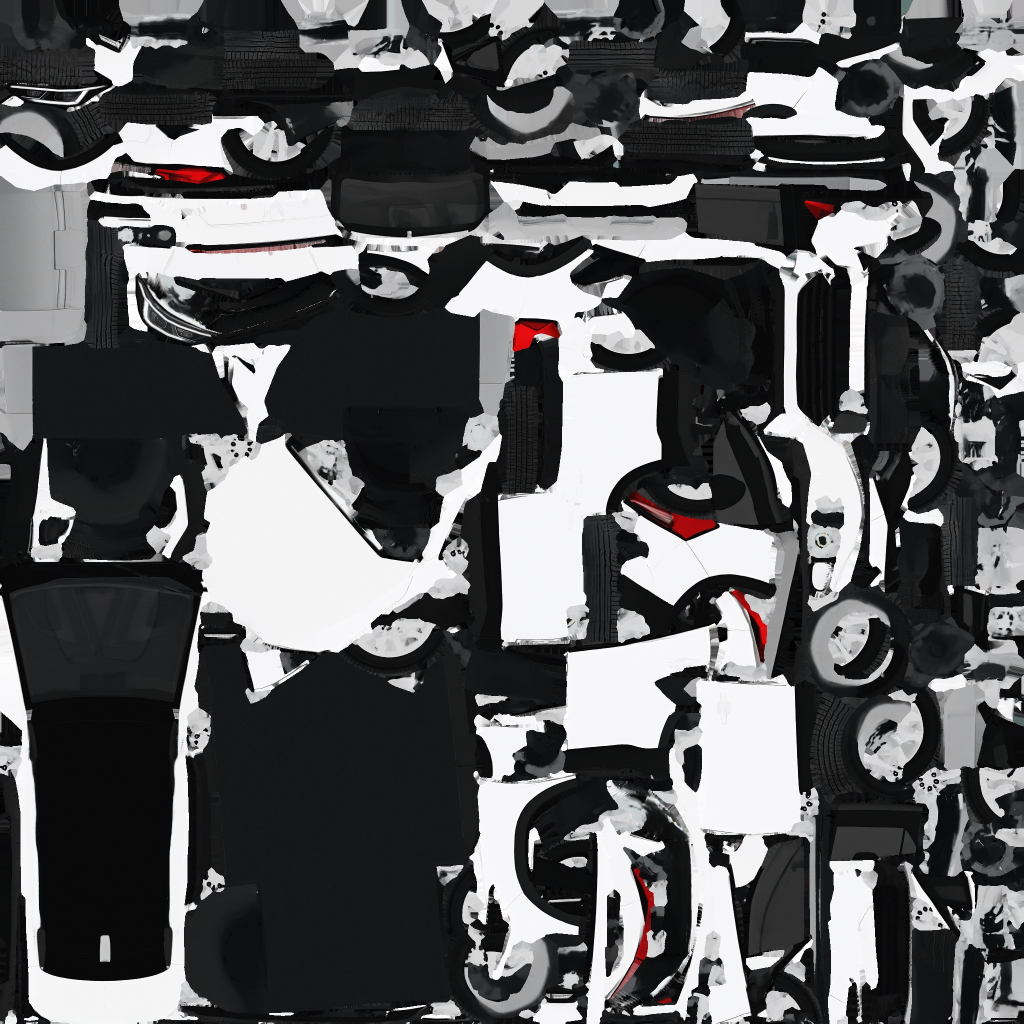
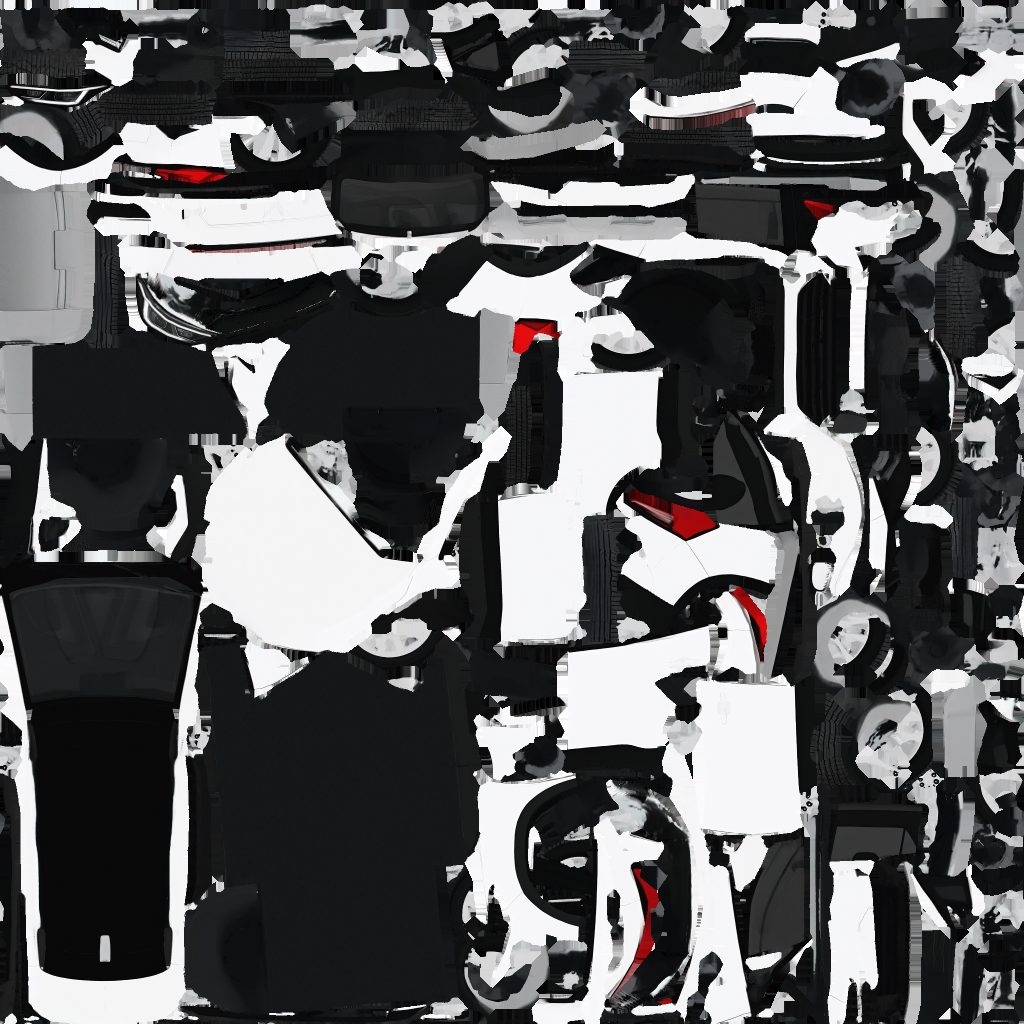
Tekstur kendaraan Meshy diberi padding (mengurangi bintik putih di sambungan UV)

diff --git a/tools/blender/meshy_mobil.py b/tools/blender/meshy_mobil.py
@@ -265,3 +265,57 @@ def proses_motor(id, path, panjang, depan="-X", tris_bodi=9500, tris_roda=1500):
     )
     print(info)
     return info
+
+
+def pad_png(path, objs, pad=10):
+    """Tambahkan 'padding' pada tekstur: piksel di luar pulau UV diisi warna pulau terdekat, supaya
+    tepi panel tidak membocorkan warna latar (putih/hitam) saat di-mipmap atau difilter di Roblox.
+    path = PNG warna dasar; objs = semua objek yang memakai tekstur itu (bodi + roda)."""
+    img = bpy.data.images.load(path, check_existing=False)
+    w, h = img.size
+    px = np.array(img.pixels[:], dtype=np.float32).reshape(h, w, 4)
+    mask = np.zeros((h, w), dtype=bool)
+    for o in objs:
+        me = o.data
+        uv = me.uv_layers.active.data
+        me.calc_loop_triangles()
+        for t in me.loop_triangles:
+            pts = np.array([uv[i].uv[:] for i in t.loops], dtype=np.float64) * [w, h]
+            x0, y0 = np.floor(pts.min(0)).astype(int) - 1
+            x1, y1 = np.ceil(pts.max(0)).astype(int) + 1
+            x0, y0 = max(x0, 0), max(y0, 0)
+            x1, y1 = min(x1, w - 1), min(y1, h - 1)
+            if x1 < x0 or y1 < y0:
+                continue
+            gx, gy = np.meshgrid(np.arange(x0, x1 + 1) + 0.5, np.arange(y0, y1 + 1) + 0.5)
+            a, b, c = pts
+            d = (b[1] - c[1]) * (a[0] - c[0]) + (c[0] - b[0]) * (a[1] - c[1])
+            if abs(d) < 1e-9:
+                continue
+            l1 = ((b[1] - c[1]) * (gx - c[0]) + (c[0] - b[0]) * (gy - c[1])) / d
+            l2 = ((c[1] - a[1]) * (gx - c[0]) + (a[0] - c[0]) * (gy - c[1])) / d
+            l3 = 1 - l1 - l2
+            eps = -0.04
+            inside = (l1 >= eps) & (l2 >= eps) & (l3 >= eps)
+            mask[y0:y1 + 1, x0:x1 + 1] |= inside
+    covered = mask.copy()
+    for _ in range(pad):
+        grow = np.zeros_like(mask)
+        acc = np.zeros((h, w, 3), dtype=np.float32)
+        cnt = np.zeros((h, w), dtype=np.float32)
+        for dy, dx in ((1, 0), (-1, 0), (0, 1), (0, -1)):
+            m = np.roll(mask, (dy, dx), (0, 1))
+            c = np.roll(px[:, :, :3], (dy, dx), (0, 1))
+            sel = m & ~mask
+            acc[sel] += c[sel]
+            cnt[sel] += 1
+        new = (cnt > 0)
+        px[new, :3] = acc[new] / cnt[new][:, None]
+        mask = mask | new
+    px[:, :, 3] = 1.0
+    img.pixels = px.ravel().tolist()
+    img.filepath_raw = path
+    img.file_format = "PNG"
+    img.save()
+    bpy.data.images.remove(img)
+    return float(covered.mean())
